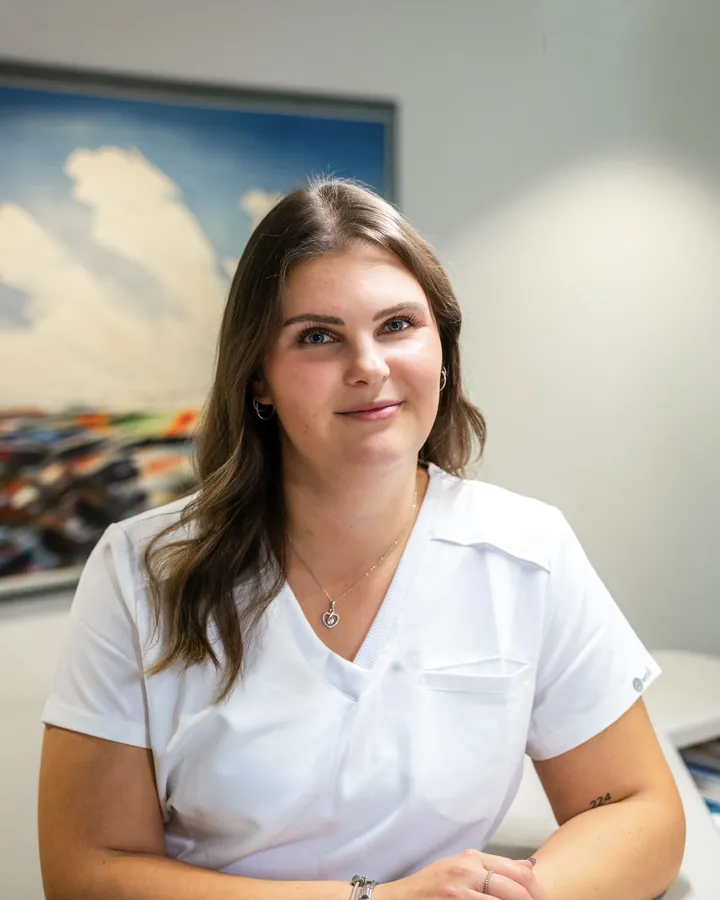
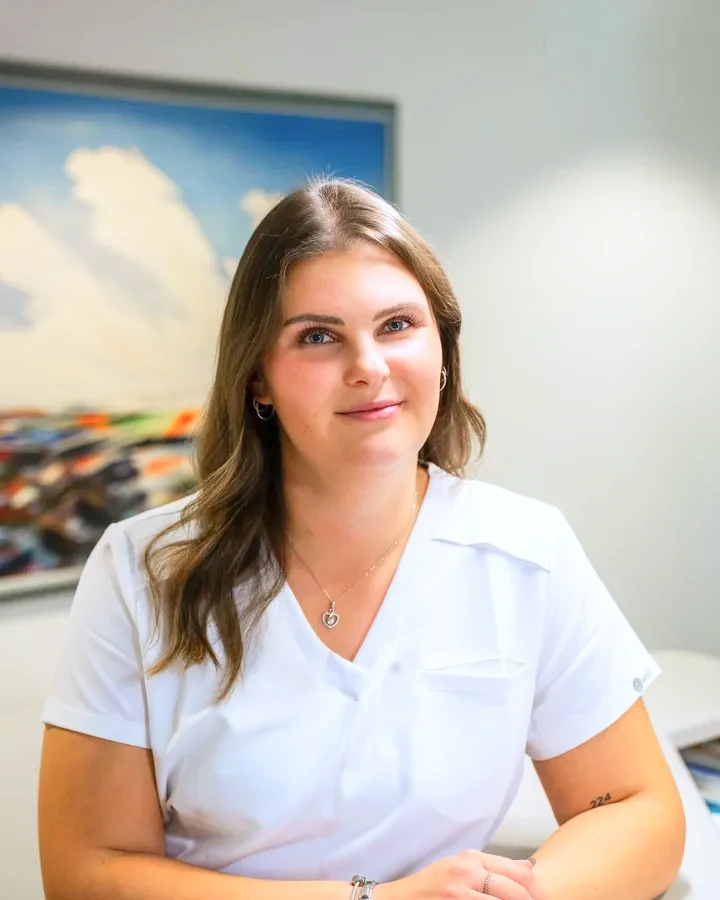
Team: Foto Caroline aufgehellt (ohne KI, Gesicht unveraendert)
- Wunsch der Praxis: Caro wirkte neben den bearbeiteten Kolleginnen zu dunkel,
  die KI-Fassung gefiel ihr nicht
- Nur Tonwerte: Helligkeitskurve auf der Luminanz, Kontrast erhalten,
  leichter Gelbstich der Wand ausgeglichen, etwas mehr Saettigung
- Helligkeit 169 -> 190 (Kolleginnen um 200), caroline.webp?v=3 in DE und EN

diff --git a/public/index.html b/public/index.html
@@ -504,7 +504,7 @@
 
       <div id="carousel-team" class="team-carousel carousel flex gap-6 lg:gap-7 overflow-x-auto px-5 sm:px-8 -mx-5 sm:-mx-8 py-5 cursor-grab select-none">
         <figure class="shrink-0 w-[64%] sm:w-[40%] lg:w-[30%] rounded-2xl bg-sage-50 border border-sage-100 overflow-hidden">
-          <div class="img-slot aspect-[4/5]"><span class="slot-label">Porträt · Caroline R.</span><img src="assets/team/caroline.webp?v=2" alt="Caroline Rzesnitzek" loading="lazy" onerror="this.style.display='none'" /></div>
+          <div class="img-slot aspect-[4/5]"><span class="slot-label">Porträt · Caroline R.</span><img src="assets/team/caroline.webp?v=3" alt="Caroline Rzesnitzek" loading="lazy" onerror="this.style.display='none'" /></div>
           <figcaption class="p-4 sm:p-5"><h4 class="font-serif text-lg sm:text-xl text-ink">Caroline Rzesnitzek</h4><p class="mt-1.5 text-sage-600 font-medium">Anmeldung</p></figcaption>
         </figure>
 

diff --git a/public/index-en.html b/public/index-en.html
@@ -505,7 +505,7 @@
 
       <div id="carousel-team" class="team-carousel carousel flex gap-6 lg:gap-7 overflow-x-auto px-5 sm:px-8 -mx-5 sm:-mx-8 py-5 cursor-grab select-none">
         <figure class="shrink-0 w-[64%] sm:w-[40%] lg:w-[30%] rounded-2xl bg-sage-50 border border-sage-100 overflow-hidden">
-          <div class="img-slot aspect-[4/5]"><span class="slot-label">Portrait ·Caroline R.</span><img src="assets/team/caroline.webp?v=2" alt="Caroline Rzesnitzek" loading="lazy" onerror="this.style.display='none'" /></div>
+          <div class="img-slot aspect-[4/5]"><span class="slot-label">Portrait ·Caroline R.</span><img src="assets/team/caroline.webp?v=3" alt="Caroline Rzesnitzek" loading="lazy" onerror="this.style.display='none'" /></div>
           <figcaption class="p-4 sm:p-5"><h4 class="font-serif text-lg sm:text-xl text-ink">Caroline Rzesnitzek</h4><p class="mt-1.5 text-sage-600 font-medium">Reception</p></figcaption>
         </figure>
 
